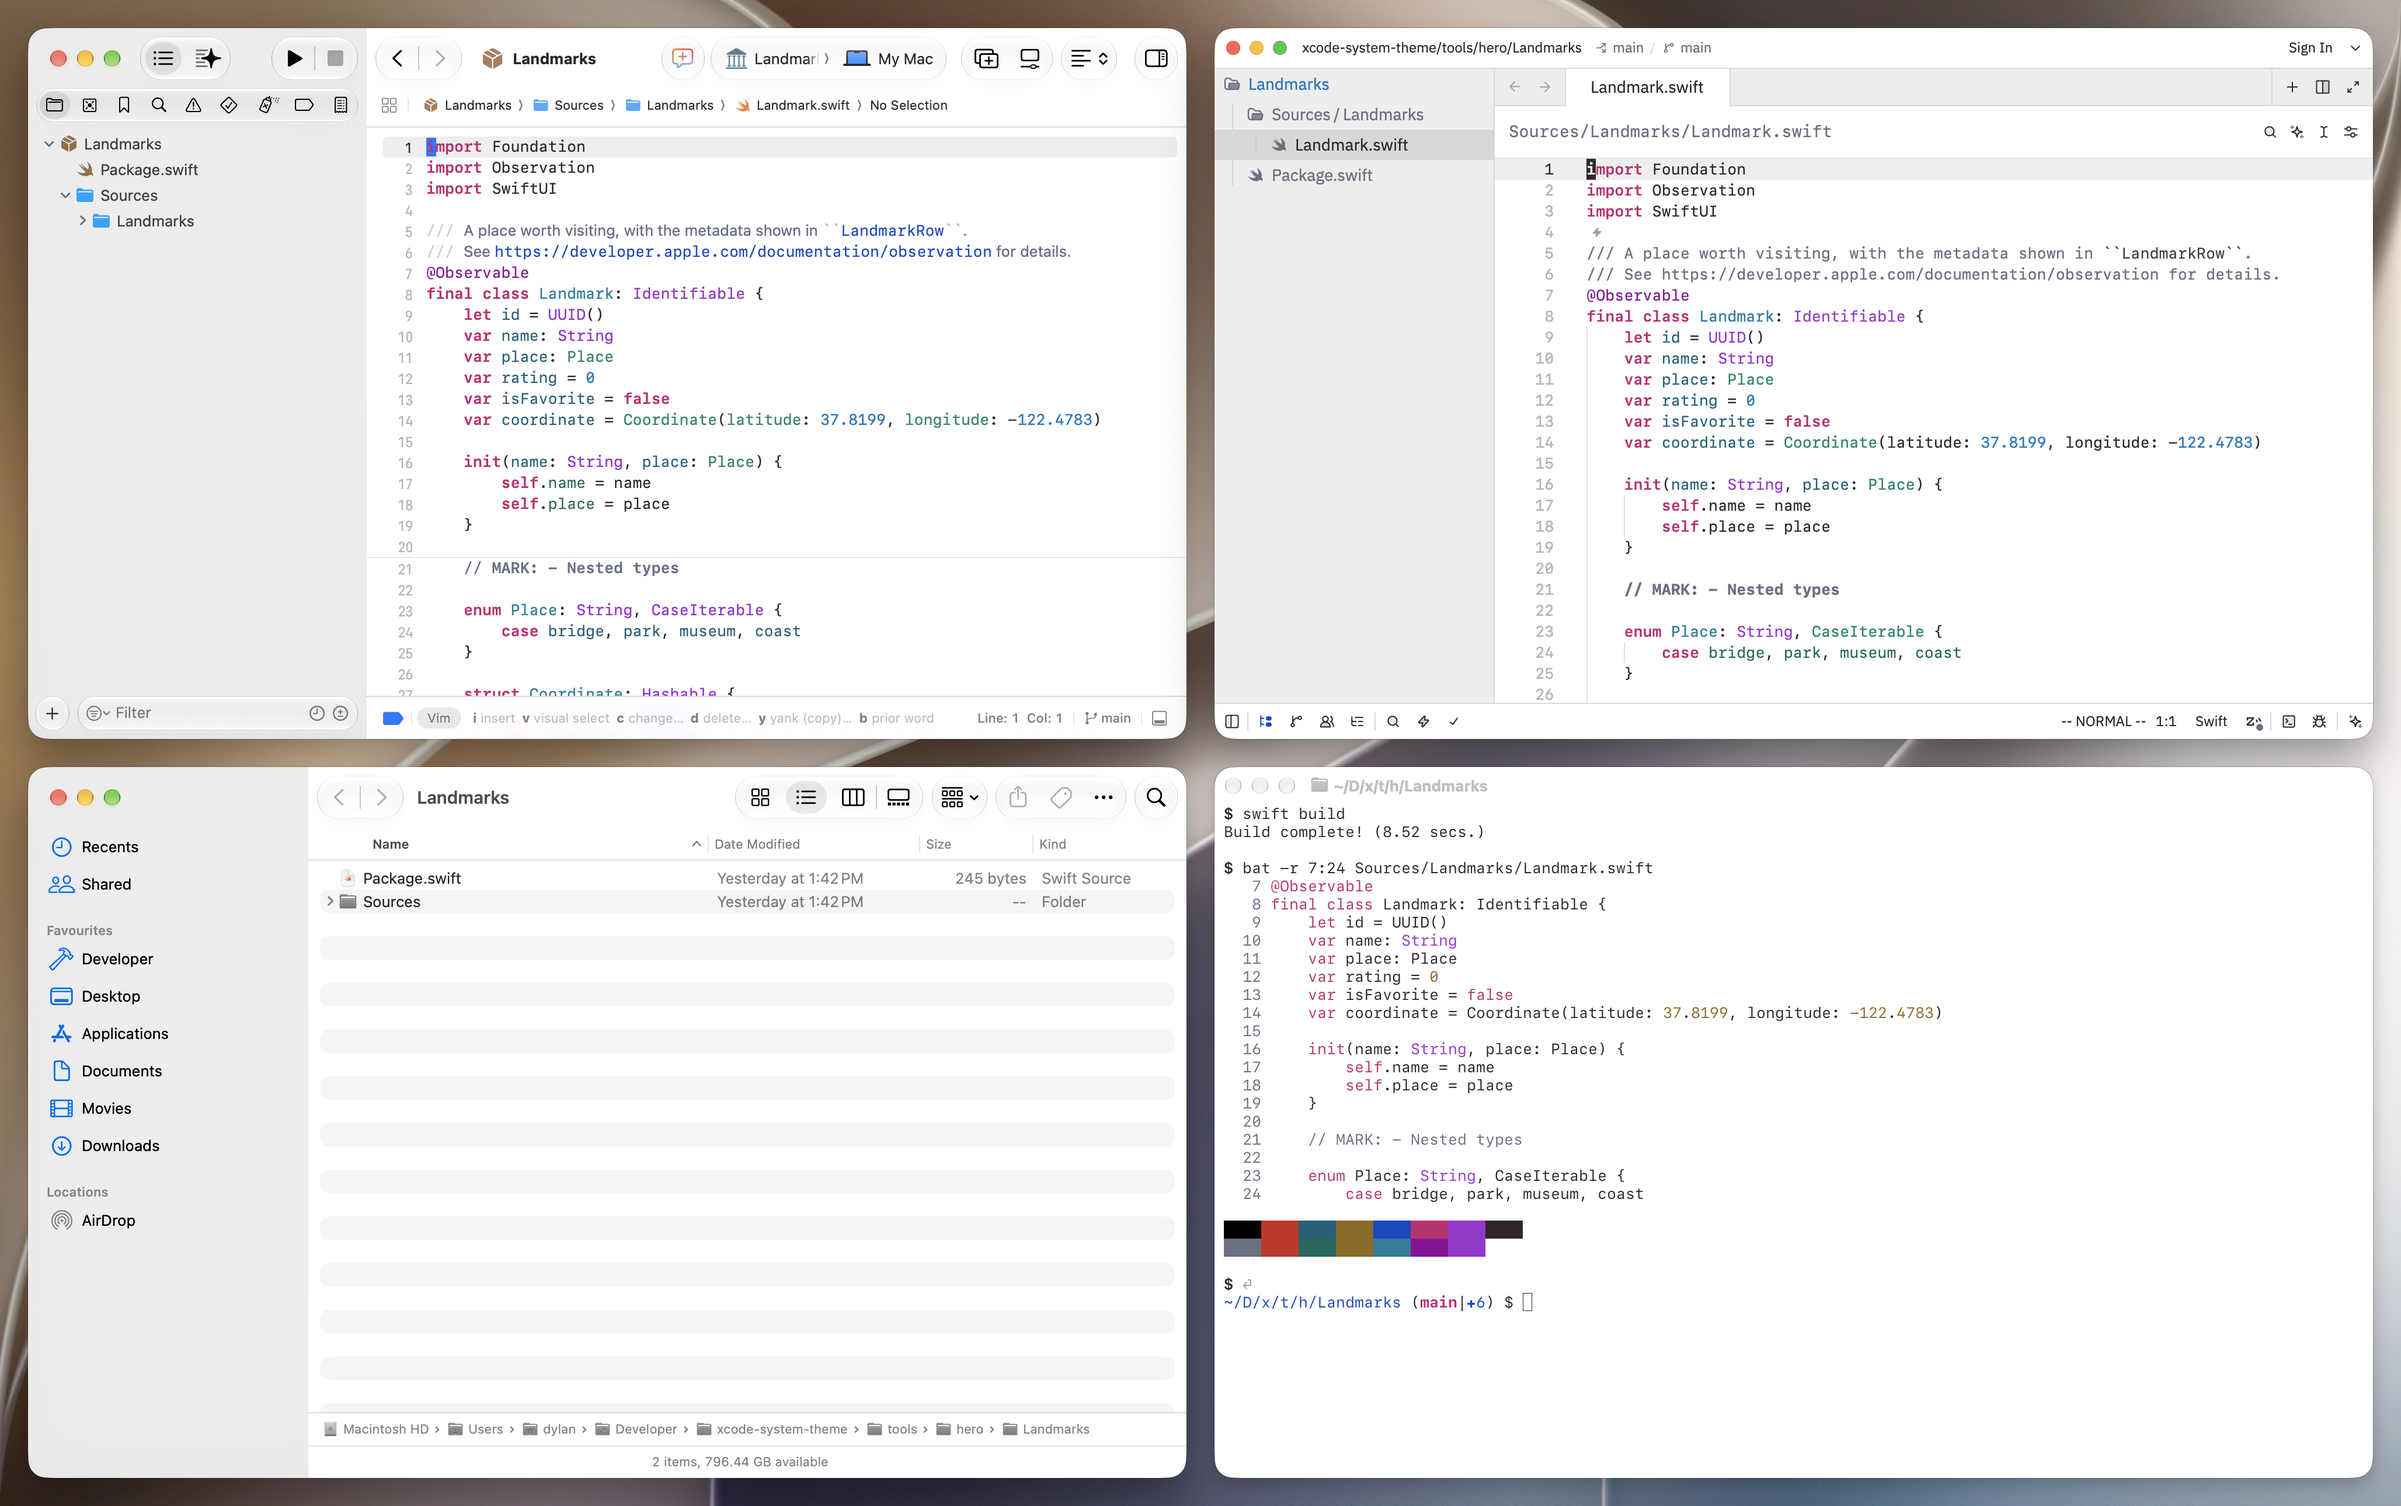
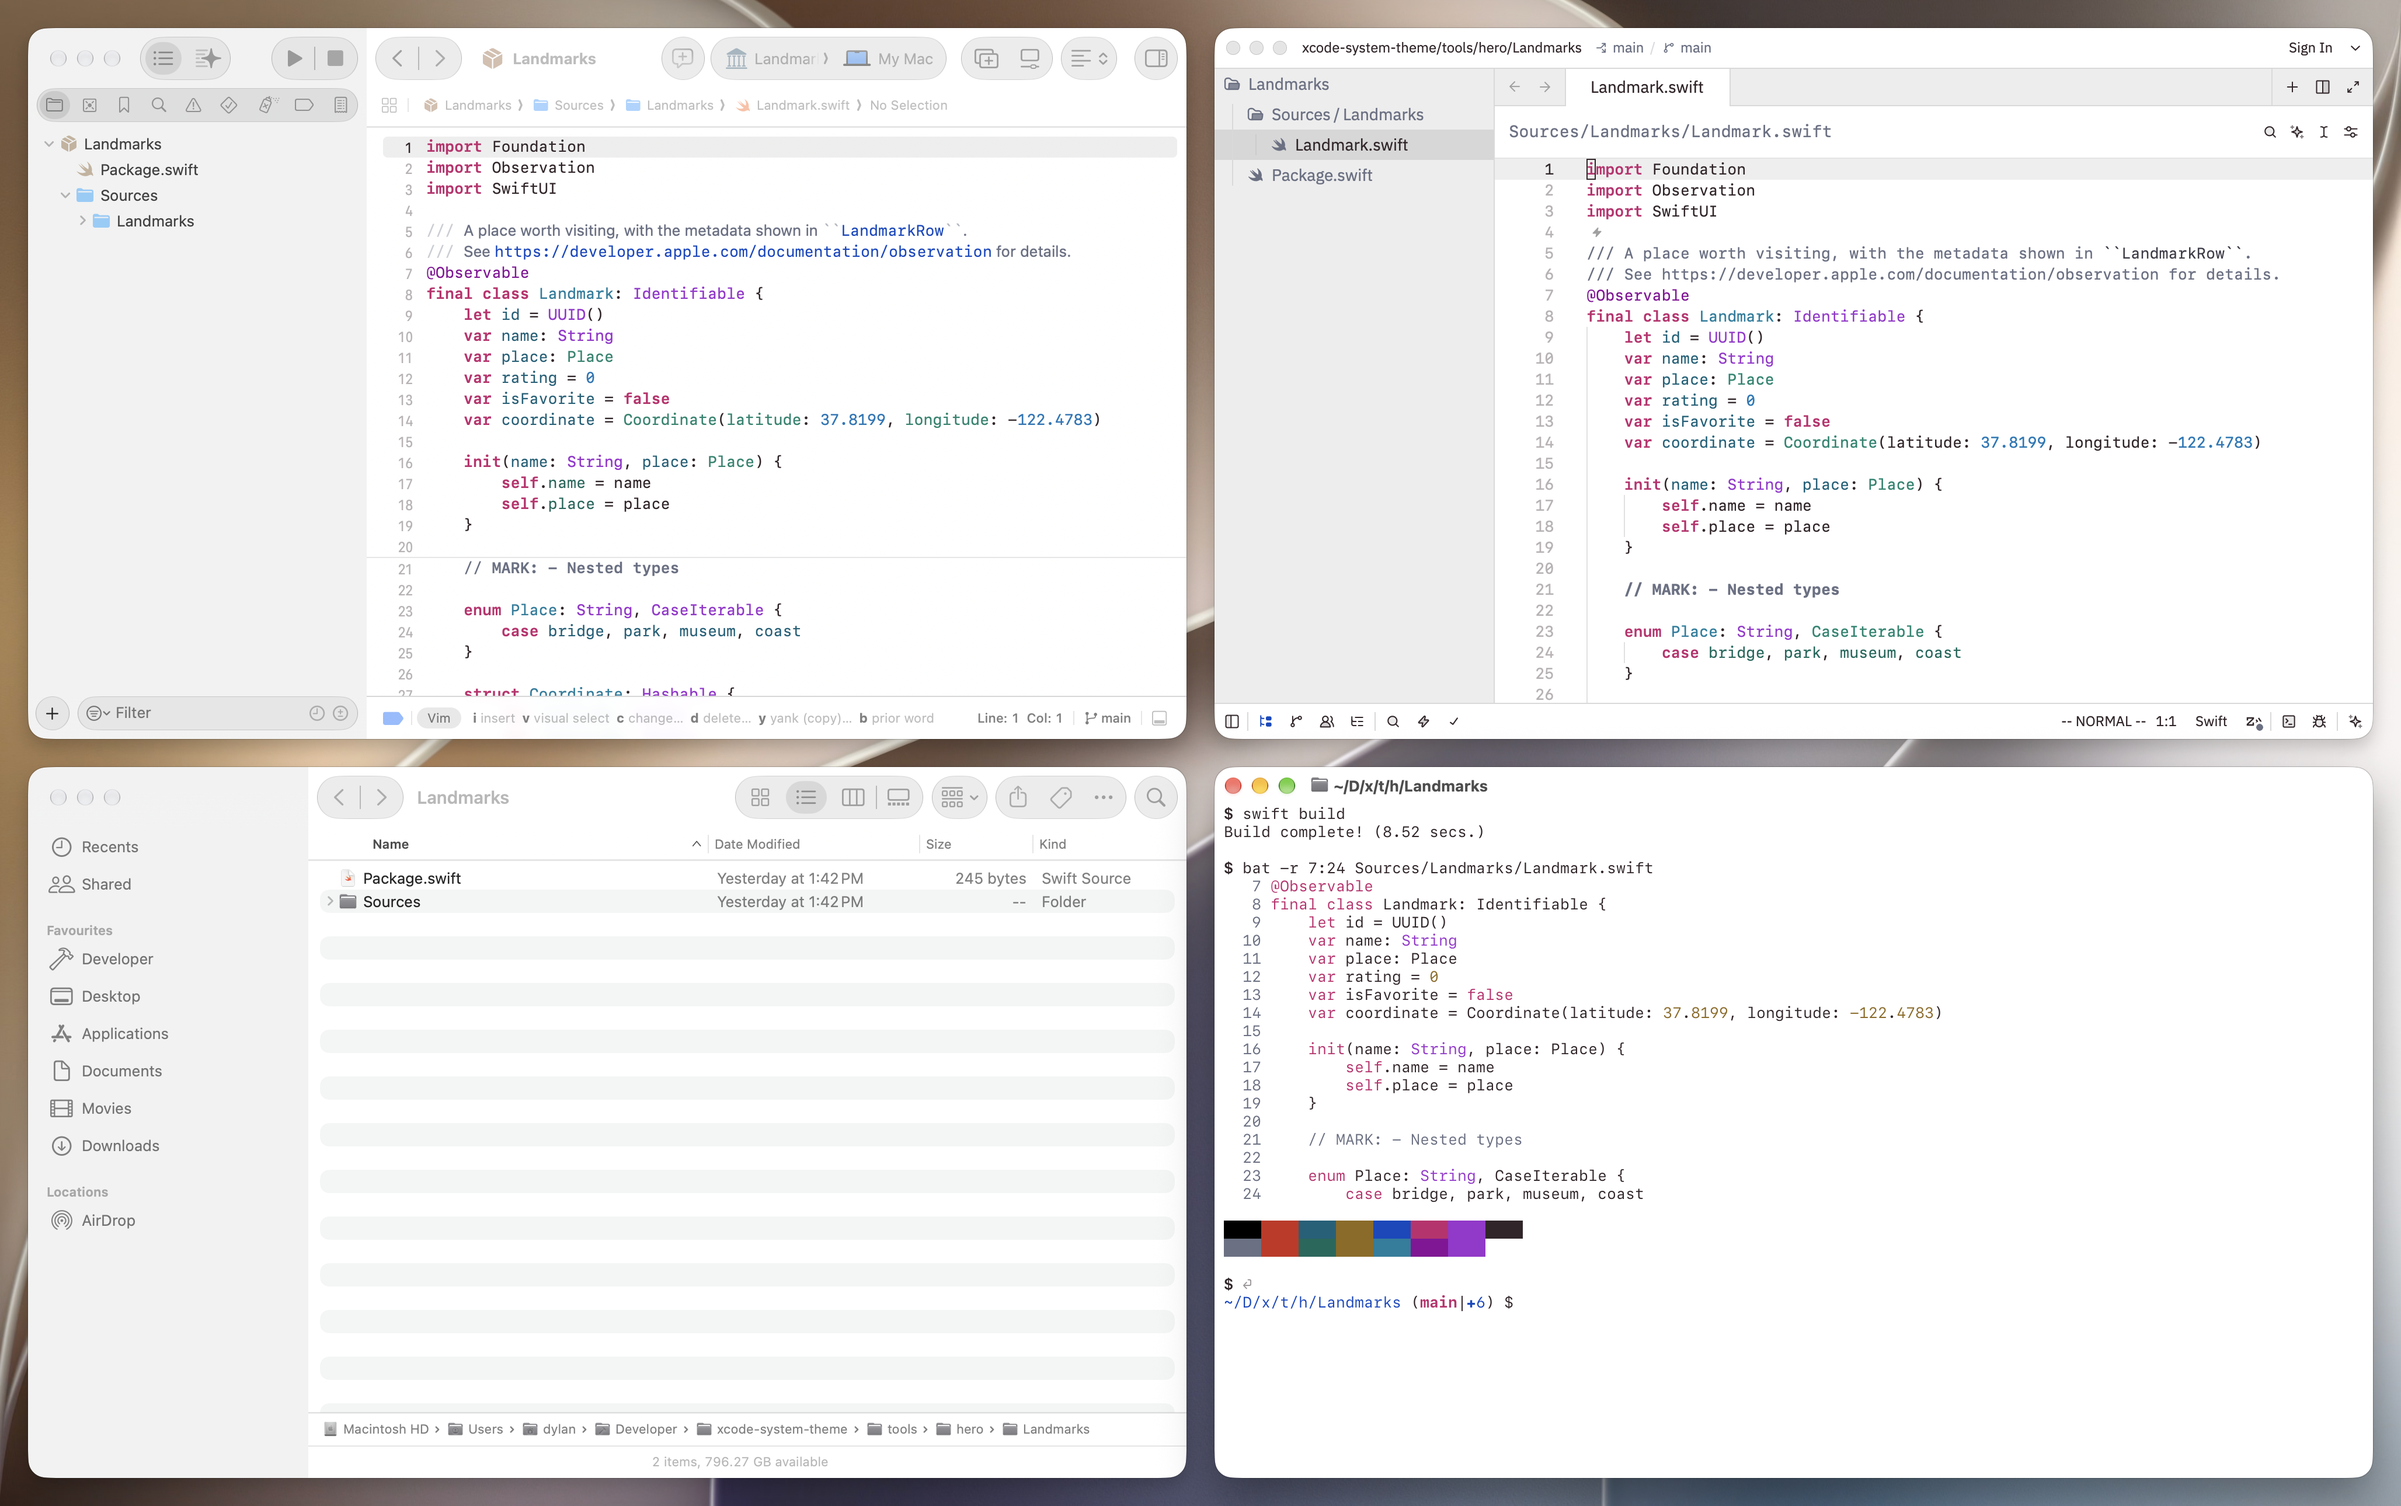
Leave only the terminal active in the hero shots

diff --git a/AGENTS.md b/AGENTS.md
@@ -63,7 +63,7 @@ Hard-won facts about how these themes are built and verified. Read before touchi
 - The 2x files carry 144 dpi metadata so Preview and Quick Look show them at one image pixel per device pixel; at the default 72 dpi they display at twice their size and look soft. Browsers ignore the metadata and scale images to fit, and the display itself runs a 4112 px buffer downsampled to a 3456 px panel, so no viewer shows the file sharper than at 50% zoom. A window capture matches the composite pixel for pixel, verified with `magick compare -metric AE`; if a shot looks blurry, it is the viewer. Windows can sit anywhere on screen; only their size matters.
 - The wallpapers are stored in the repo as `tools/hero/wallpaper-{light,dark}.jpg` at the display's native 2x resolution, captured once from the wallpaper window (owner `WindowManager`, titled `Wallpaper`, which excludes desktop icons). `hero.sh wallpaper` recaptures them; the wallpaper crossfade takes about 4 s, which is why they are not captured per run. `tools/winlist.swift` lists windows at every layer with bounds.
 - Park the mouse pointer in the gap between windows before capturing (`tools/warpmouse.swift`). The pointer itself is never captured, but hover effects are: a pointer left over Zed's editor produced a documentation popup in the shot once Zed was raised.
-- Raise each window immediately before capturing it. macOS 27 glass toolbars, Xcode's especially, are backdrops the compositor only renders while the window is unobscured; a window captured from behind another comes back with dither-noise blocks where its toolbar items sit. Frontmost-then-capture costs about 0.4 s per window and makes every window look active.
+- Every window must be unobscured when captured. macOS 27 glass toolbars, Xcode's especially, are backdrops the compositor only renders while the window is unobscured; a window captured from behind another comes back with dither-noise blocks where its toolbar items sit. Being inactive is fine. `capture` activates the apps in a rotation so each grid window is raised but inactive at its capture, and makes the Ghostty demo window key last, so only the terminal shows lit traffic lights. Activating Ghostty makes its most recent window key, which is this session's terminal, hence the explicit `AXRaise` on the demo window.
 - After switching appearance, apps re-render in about 1.5 s. Poll one window's mean brightness until two samples agree rather than sleeping; capture whichever appearance is current first so only one switch is needed, and restore the original appearance at the end. `capture` takes about 7 s for both appearances, most of it the switch and Finder's hidden-files toggle.
 - Never delete `.swiftpm` while Xcode has the package open; Xcode raises a modal about the vanished workspace file. Deleting `.build` is fine.
 - `tools/hero/Landmarks/.zed/settings.json` excludes `.build`, `.swiftpm`, and `.zed` from Zed's tree, since sourcekit-lsp keeps recreating an index build there.
